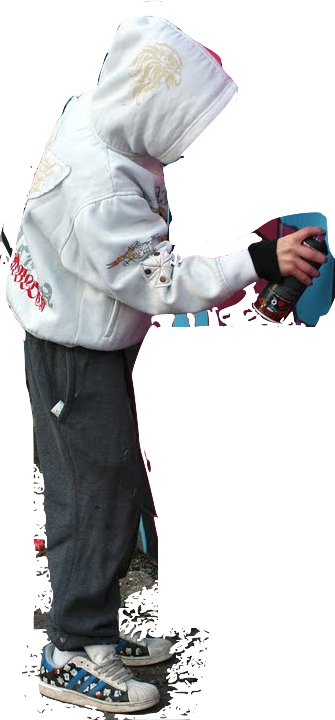
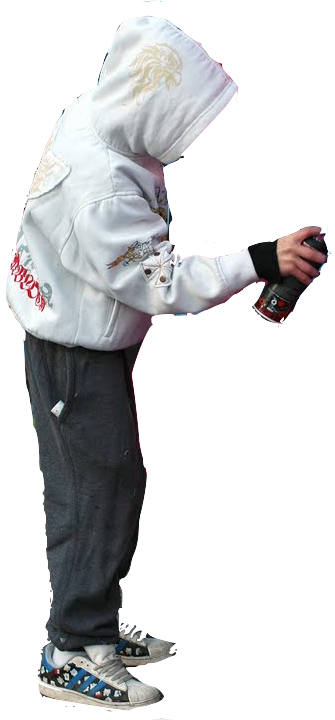
created a function to change the graffiti opacity everytime button is clicked

diff --git a/js/app.js b/js/app.js
@@ -5,6 +5,9 @@ function setup() {
   const $right = $('#right');
   const $left = $('#left');
   const $will = $('.gArtist');
+  const $section = $('.graff');
+  let i = 0.1;
+  let x = 0.1;
   const randomTime = Math.ceil(Math.random()*8500);
   const randomTimeUp = Math.ceil(Math.random()*3000);
   const randomTimeDown = Math.ceil(Math.random()*10000);
@@ -31,6 +34,8 @@ function setup() {
   function sprayWall() {
     // find the div covering the current wall section
     // update the opacity of that div
+    $section.css('opacity', i);
+    i = i+x;
   }
 
   function policeUp() {

diff --git a/css/style.css b/css/style.css
@@ -38,6 +38,7 @@ body {
   background-image: url(/Users/123THC/development/project1/images/graff2.png);
   background-position: center;
   background-attachment: fixed;
+  opacity: 0;
   width: 50px;
   height: 300px;
   padding: 0px;
